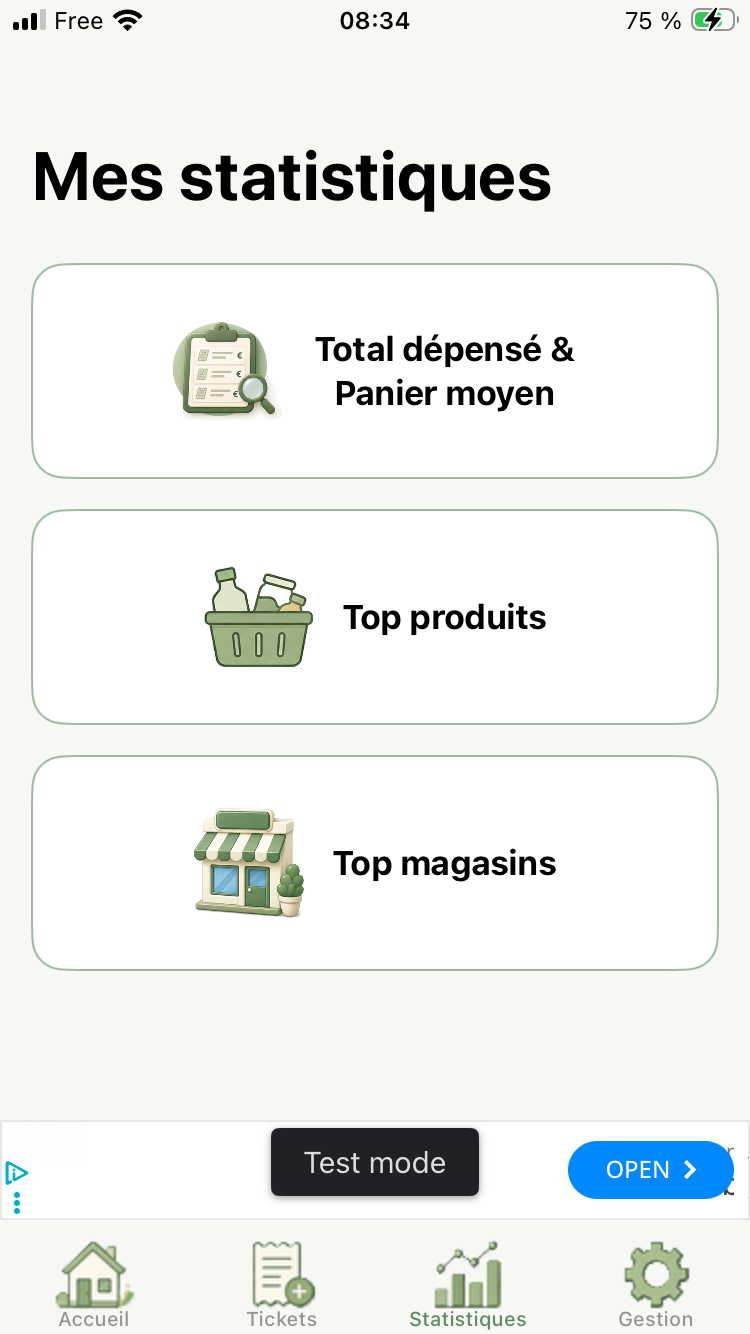
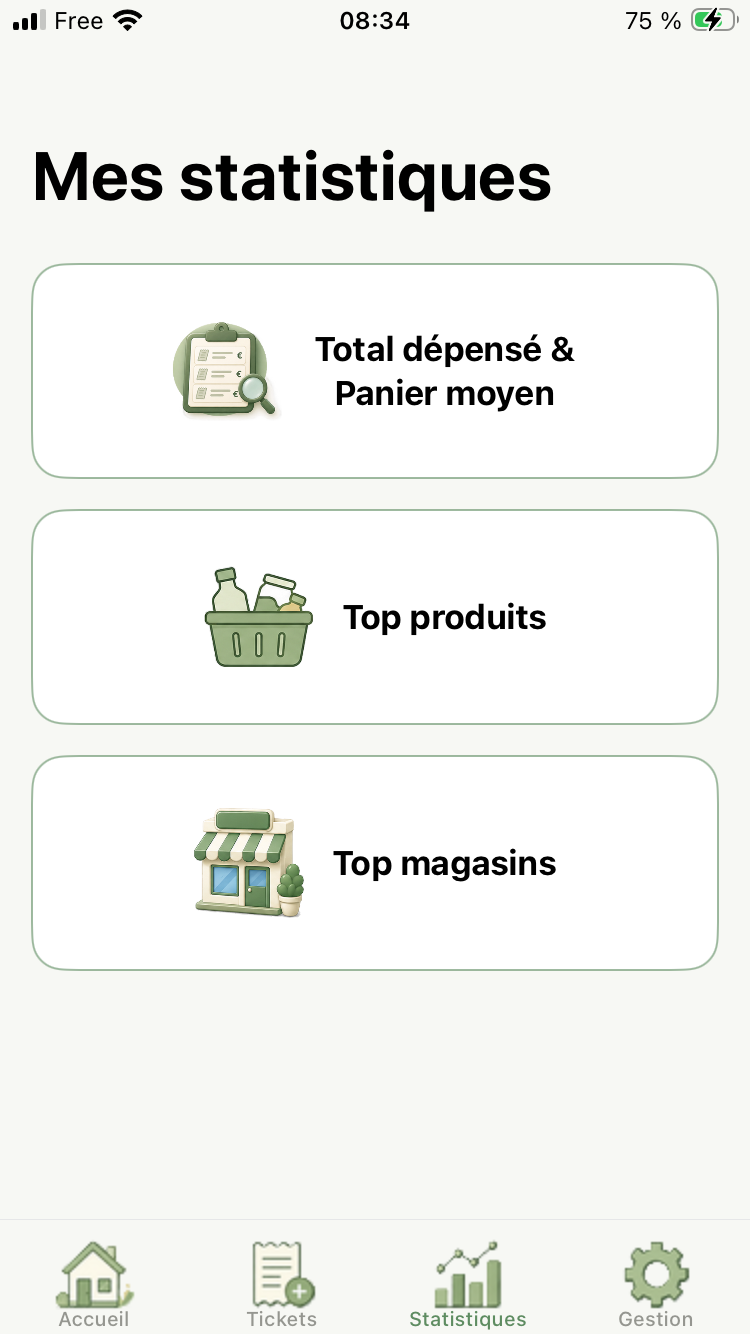
maj des images sans la pub + correctio du texte

Changed region(s): [[0.3373, 0.8298, 0.644, 0.922], [0.736, 0.8298, 0.9813, 0.922], [0.0, 0.8606, 0.0307, 0.922]]

diff --git a/index.html b/index.html
@@ -70,9 +70,7 @@
                     </div>
                     <div class="carte">
                         <h3>Ajouter des produits</h3>
-                        <p>Scanner le code-barre d'un produit pour l'ajouter dans l'application, récupération
-                            automatique des données depuis Open Food Facts (base de donnée collaborative) (nécéssite une
-                            connexion internet)</p>
+                        <p>Scanner le code-barres d'un produit pour l'ajouter à l'application et récupérer automatiquement ses données depuis Open Food Facts, une base de données collaborative (nécessite une connexion Internet).</p>
                     </div>
                 </div>
                 <div class="liste h-240">
@@ -84,7 +82,7 @@
                     </div>
                     <div class="carte">
                         <h3>Personnalisation du produit</h3>
-                        <p>Personnaliser votre produit, avec un nom, une catégorie, un conditionnement et une marque.
+                        <p>Personnaliser votre produit avec un nom, une catégorie, un conditionnement et une marque.
                         </p>
                     </div>
                 </div>
@@ -98,7 +96,7 @@
                     <div class="carte">
                         <h3>Produits génériques</h3>
                         <p>Idéal pour les produits sans codes-barres ou dits poids/prix comme la viande ou les
-                            légumes... les icones vous permettent de choisir celui qui correspond le mieux.</p>
+                            légumes... les icônes vous permettent de choisir celui qui correspond le mieux.</p>
                     </div>
                 </div>
                 <div class="liste h-300">
@@ -110,8 +108,7 @@
                     </div>
                     <div class="carte">
                         <h3>Ajouter des magasins</h3>
-                        <p>Possibilité d'ajouter des magasins avec la personnalisation (nom, ville et note) que vous
-                            pourrez affecter aux tickets et voir les statistiques</p>
+                        <p>Possibilité d'ajouter des magasins en personnalisant leur nom, leur ville et leur note. Vous pourrez ensuite les associer à vos tickets et consulter les statistiques.</p>
                     </div>
                 </div>
                 <!-- Début ajout des produits -->
@@ -142,9 +139,8 @@
                     </div>
                     <div class="carte">
                         <h3>Visualiser les tickets</h3>
-                        <p>Les tickets sont accessibles 30 jours en tant que validés</p>
-                        <p>Si la liste est trop longue, vous pouvez archviver volontairement un ticket et vous pouver
-                            lui redonner l'état de validé</p>
+                        <p>Les tickets restent accessibles pendant 30 jours après leur validation.</p>
+                        <p>Si la liste est trop longue, vous pouvez archiver volontairement un ticket et lui redonner ultérieurement l'état « validé ».</p>
                     </div>
                 </div>
                 <div class="liste h-300">
@@ -156,7 +152,7 @@
                     </div>
                     <div class="carte">
                         <h3>Archiver des tickets</h3>
-                        <p>Les tickets sont archivés automatiquement au bout de 30 jours</p>
+                        <p>Les tickets sont automatiquement archivés au bout de 30 jours.</p>
                         <p>Vous avez accès au détail des produits ainsi qu'au montant total du ticket</p>
                     </div>
                     <!--  -->
@@ -164,7 +160,7 @@
                 </div>
 
 
-                <h2>Les Statistiques</h2>
+                <h2>Les statistiques</h2>
                 <div class="liste h-240">
                     <div class="date"></div>
                     <div class="cercle">
@@ -174,7 +170,7 @@
                     </div>
                     <div class="carte">
                         <h3>Différentes statistiques</h3>
-                        <p>Informations sur les dépenses, les top produits et les tops magasins</p>
+                        <p>Informations sur les dépenses, les produits les plus achetés et les magasins les plus fréquentés</p>
                     </div>
                 </div>
 
@@ -245,13 +241,13 @@
                     <li><strong><br>Stockage local :</strong><br>
                         Toutes vos données (tickets, produits, magasins, historiques)
                         sont stockées exclusivement en local sur votre appareil via le framework SwiftData d'Apple.
-                        Aucune donnée n'est envoyée vers un serveur externe.</li>
+                        Aucune donnée n'est envoyée à un serveur externe..</li>
                     <li><strong><br>Absence de collecte :</strong><br>
                         Nous ne collectons, ne vendons et ne partageons aucune
                         donnée personnelle ni comportementale.</li>
                     <li><strong><br>Réseau & Suivi :</strong><br>
                         L'application ne contient aucun outil de traçage publicitaire
-                        (SDK tiers), ni aucun analyseur d'audience. Elle fonctionne parfaitement hors-ligne.</li>
+                        (SDK tiers), ni aucun outil d'analyse d'audience. Elle fonctionne parfaitement hors-ligne.</li>
                     <li><strong><br>Appareil photo :</strong><br>
                         L'accès à l'appareil photo est utilisé
                         uniquement pour vous permettre de scanner le code-barres d'un produit. Aucune image
@@ -279,7 +275,7 @@
                     </div>
                     <div>
                         <label for="message">Message : *</label>
-                        <textarea name="message" id="message" name="message" required minlength="10"
+                        <textarea name="message" id="message" required minlength="10"
                             maxlength="250"></textarea>
                         <span class="error"></span>
                     </div>
